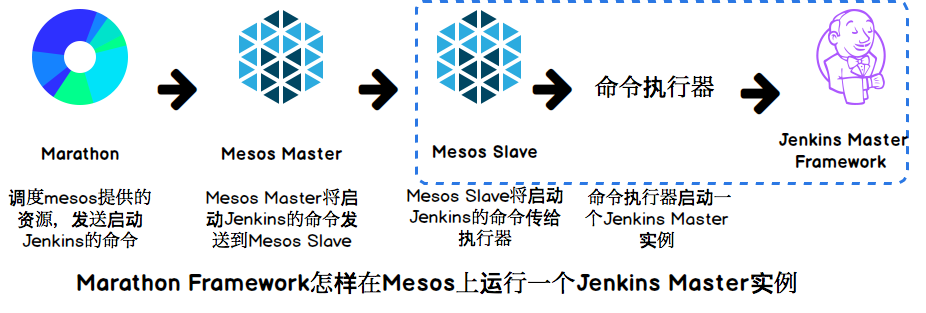
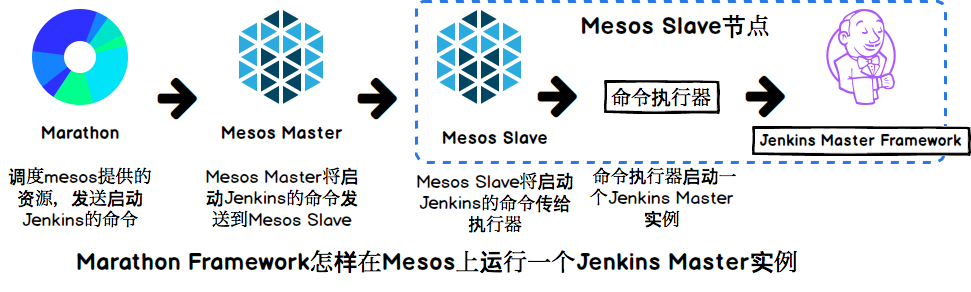
Update

diff --git a/_posts/2015-05-12-jenkins-on-mesos.md b/_posts/2015-05-12-jenkins-on-mesos.md
@@ -18,7 +18,8 @@ categories: scale CI
 
  下面两张图形象的说明了Marathon将Jenkins Master部署到Mesos资源池，以及Jenkins Master使用Mesos资源池进行作业构建的整个过程。 
 
-  <img src="/assets/how-marathon-run-jenkins-on-mesos.png" style="width: 750px; height: 200px;" alt="Jenkins Master实例信息"/>
+  <img src="/assets/how-marathon-run-jenkins-on-mesos.png" style="width: 630px; height: 200px;" alt="Jenkins Master实例信息"/>
+  <img src="/assets/how-jenkins-master-on-mesos.png" style="width: 630px; height: 200px;" alt="Jenkins Master运行在Mesos上"/>
 
 ###环境设置
 
